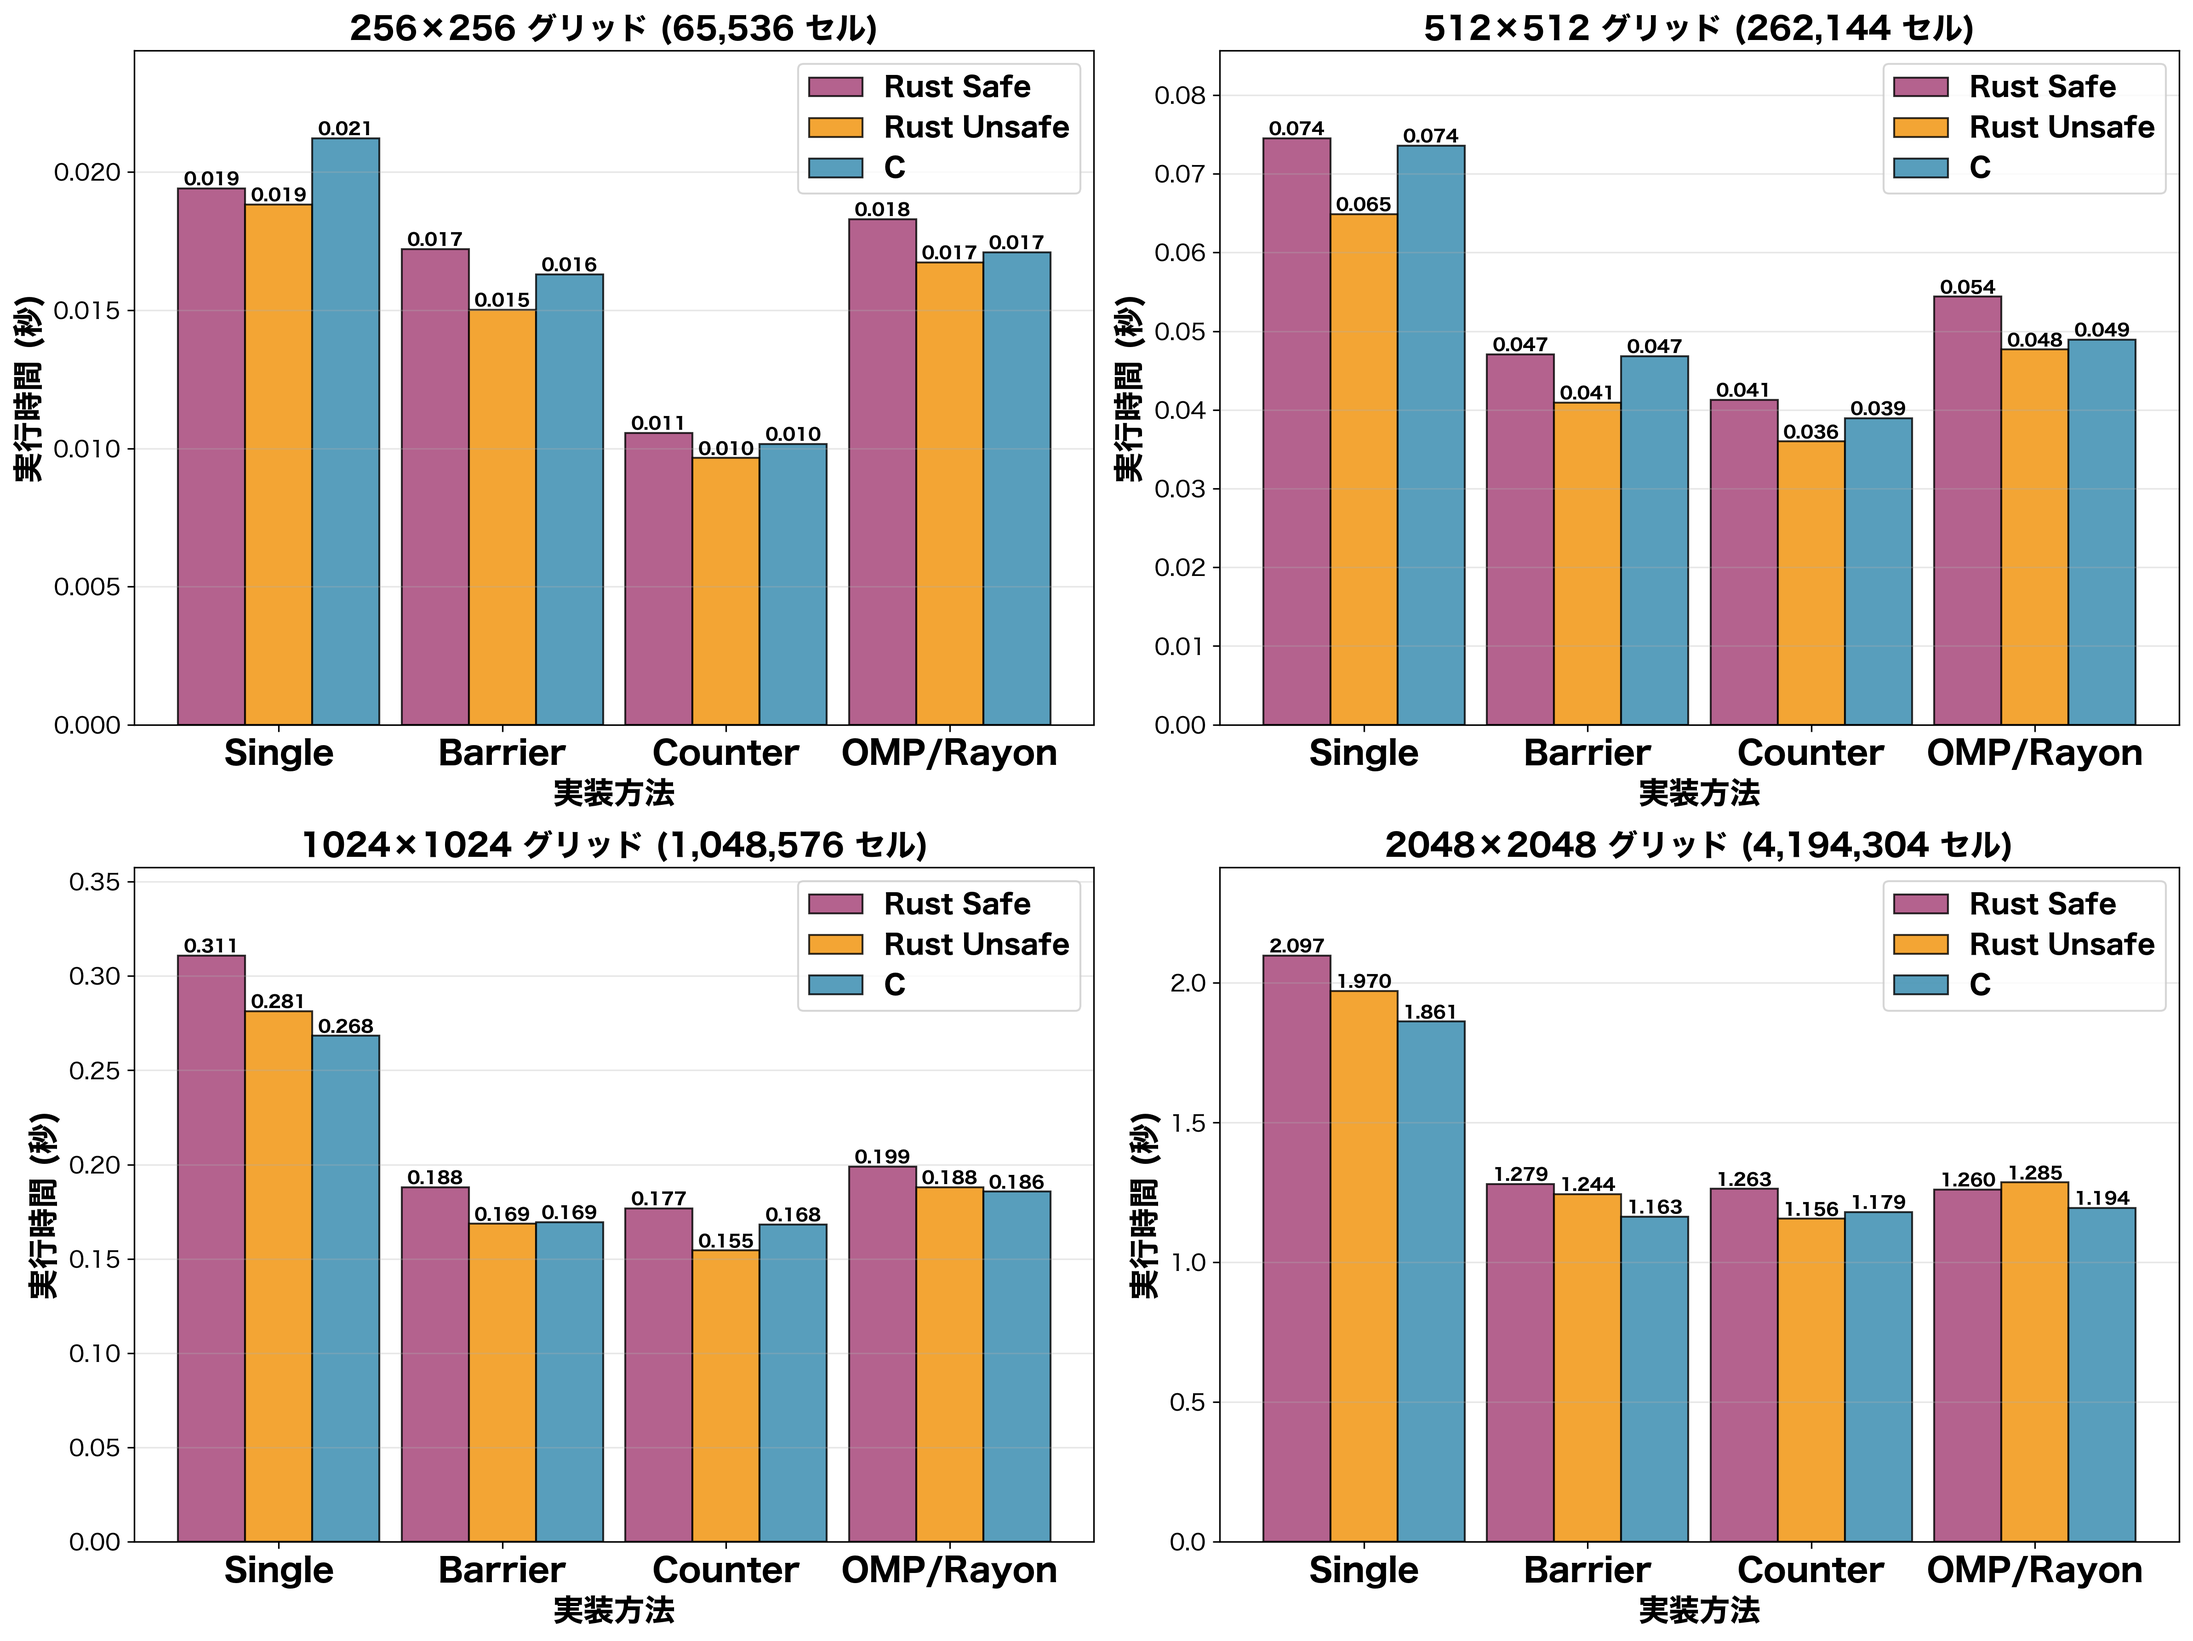
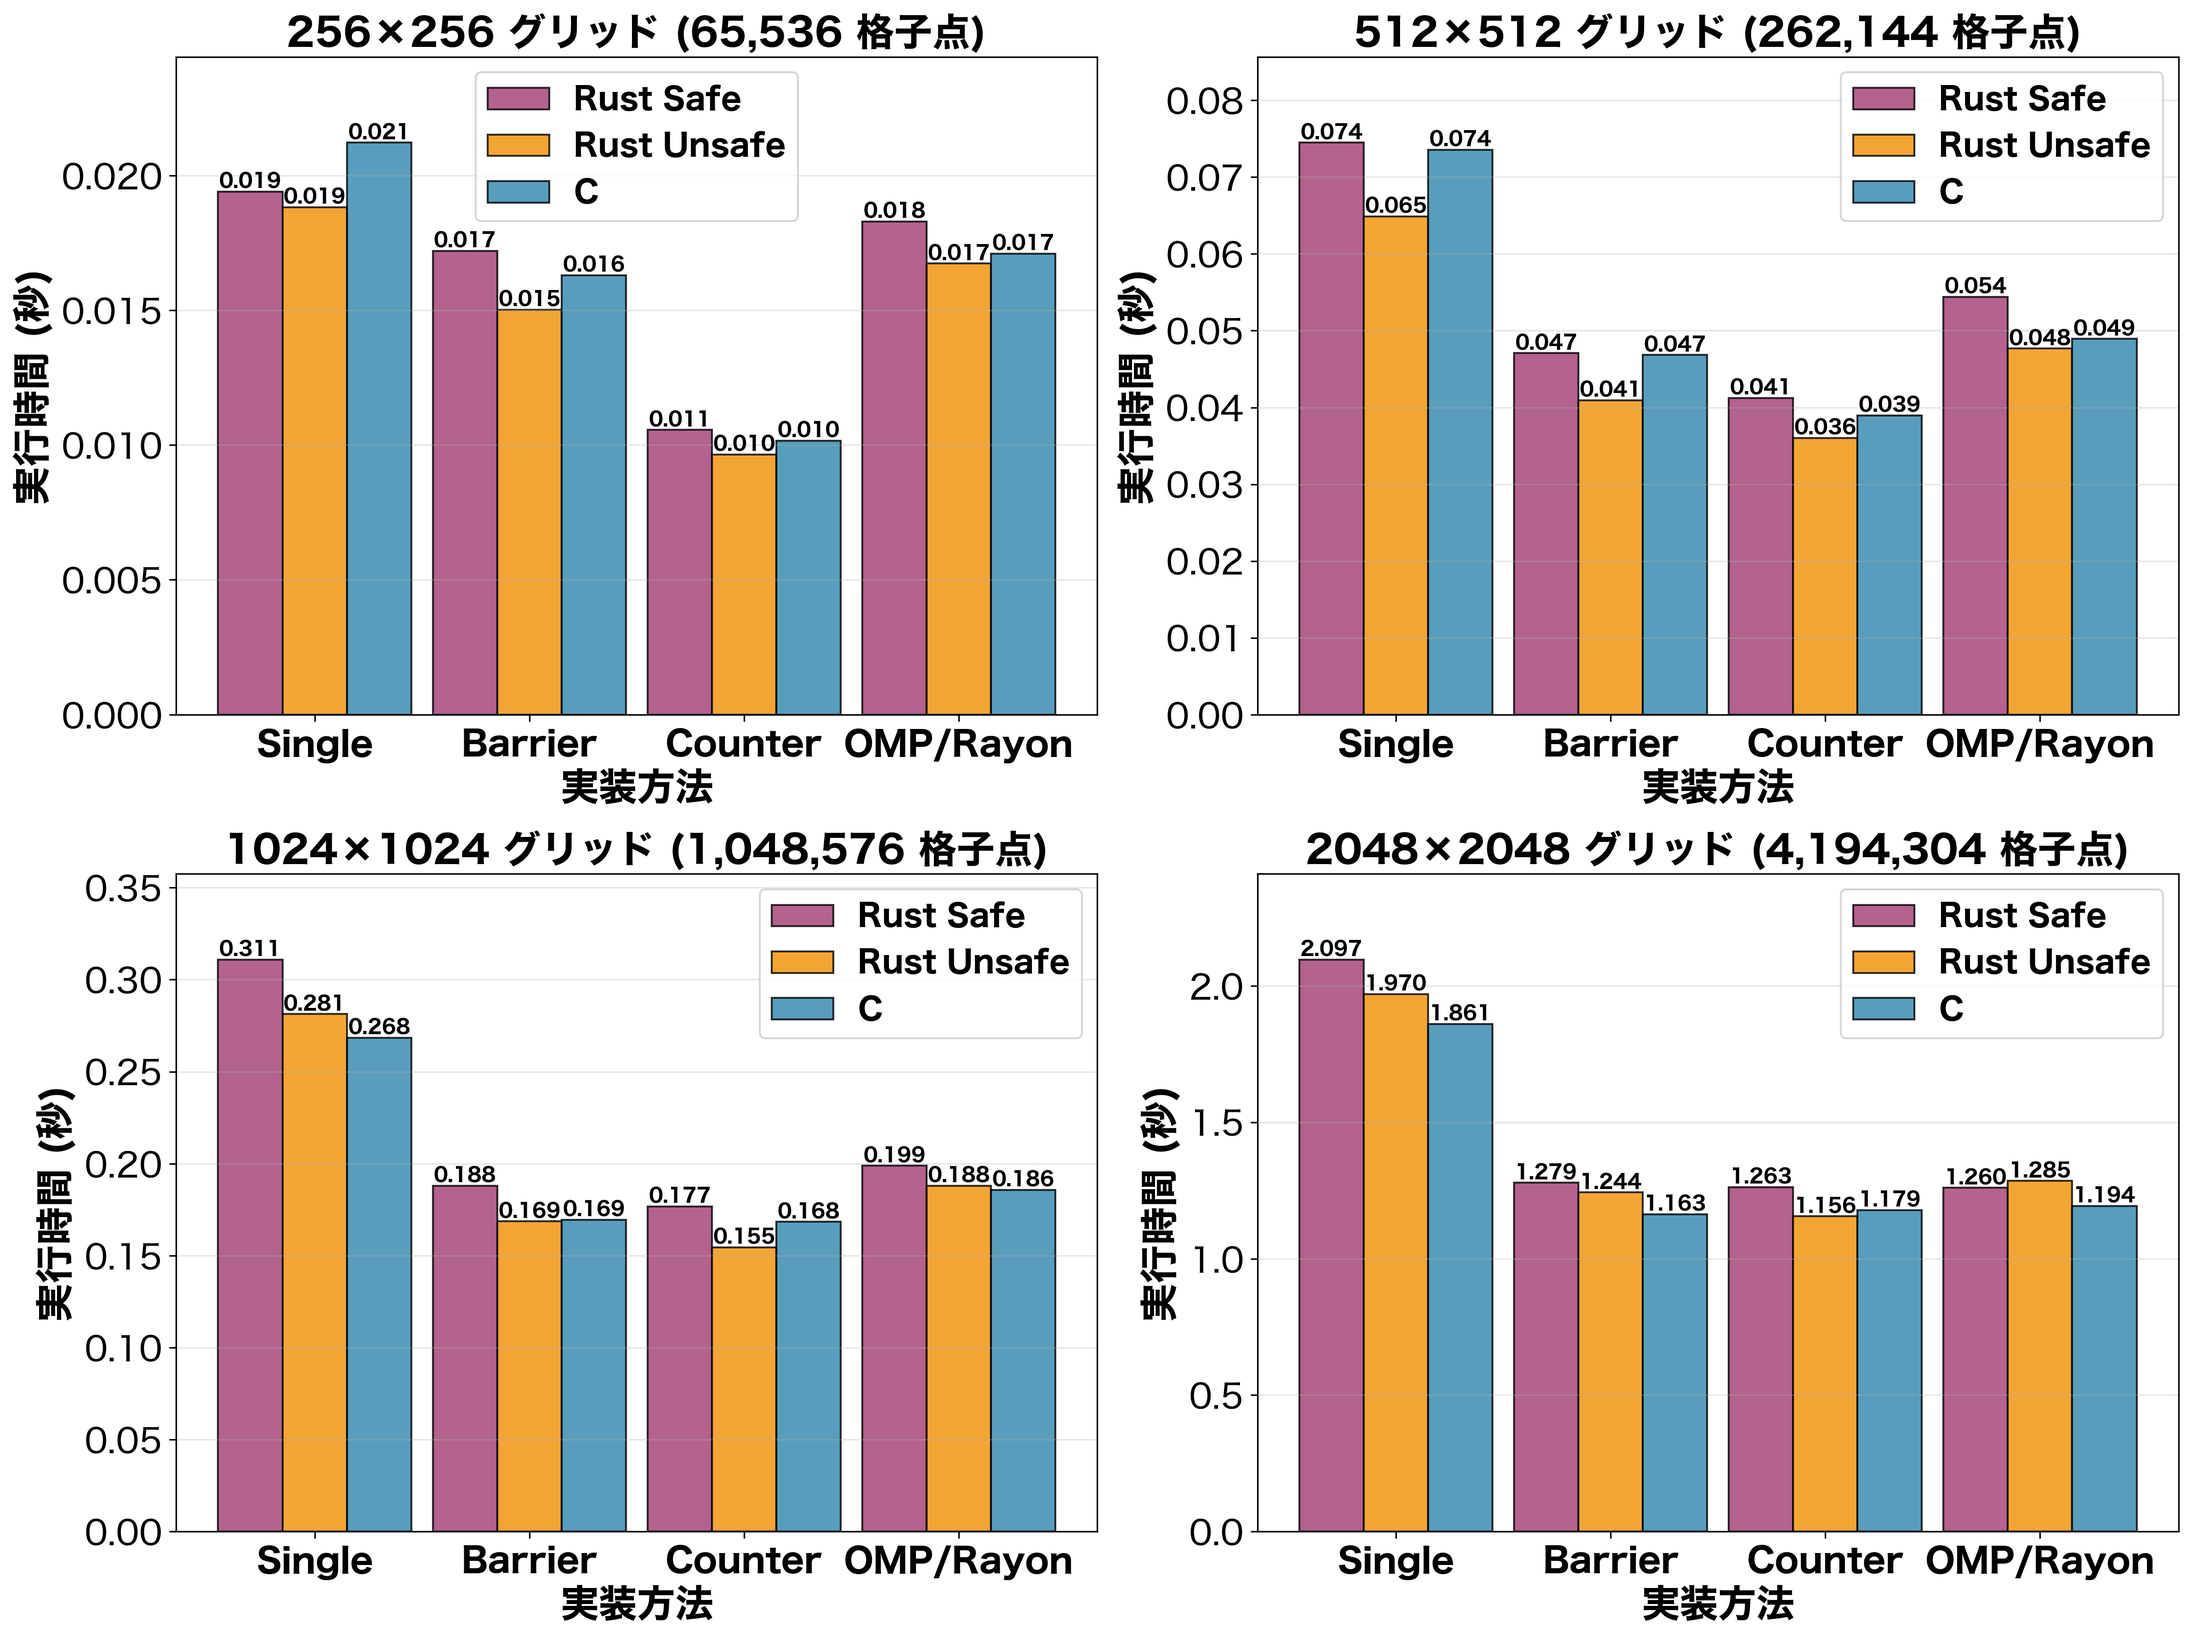
画像の文字サイズを修正

Changed region(s): [[0.0, 0.0, 0.9998, 0.6225], [0.0, 0.5292, 0.9998, 0.9961], [0.5936, 0.0, 0.9998, 0.1245]]

diff --git a/scripts/create_thesis_graphs.py b/scripts/create_thesis_graphs.py
@@ -116,17 +116,17 @@ def create_grid_size_comparison():
         rects2 = ax.bar(x, rust_unsafe_times, width, label='Rust Unsafe', color=colors['Rust Unsafe'], edgecolor='black', alpha=0.8)
         rects3 = ax.bar(x + width, c_times, width, label='C', color=colors['C'], edgecolor='black', alpha=0.8)
 
-        ax.set_xlabel('実装方法', fontsize=16,fontweight='bold')
-        ax.set_ylabel('実行時間 (秒)', fontsize=16, fontweight='bold')
-        ax.set_title(f'{grid_size} グリッド ({cells[idx]:,} セル)', fontsize=16, fontweight='bold')
+        ax.set_xlabel('実装方法', fontsize=20,fontweight='bold')
+        ax.set_ylabel('実行時間 (秒)', fontsize=20, fontweight='bold')
+        ax.set_title(f'{grid_size} グリッド ({cells[idx]:,} 格子点)', fontsize=20, fontweight='bold')
         ax.set_xticks(x)
-        
+
         # ラベルを短縮して回転なしで表示
         short_labels = [m.replace('OpenMP/Rayon', 'OMP/Rayon').replace('Single Thread', 'Single').replace('Counter Sync', 'Counter') for m in methods]
-        ax.set_xticklabels(short_labels, fontsize=17, fontweight='bold')
-        
-        ax.tick_params(axis='y', labelsize=12)
-        ax.legend(prop={'size': 14, 'weight': 'bold'})
+        ax.set_xticklabels(short_labels, fontsize=18, fontweight='bold')
+
+        ax.tick_params(axis='y', labelsize=18)
+        ax.legend(prop={'size': 16, 'weight': 'bold'})
         ax.grid(True, alpha=0.3, axis='y')
         ax.margins(y=0.15) # 上部にスペースを確保
 
@@ -136,7 +136,7 @@ def create_grid_size_comparison():
                 height = rect.get_height()
                 ax.text(rect.get_x() + rect.get_width()/2., height,
                         f'{height:.3f}',
-                        ha='center', va='bottom', fontsize=9, fontweight='bold', rotation=0)
+                        ha='center', va='bottom', fontsize=10, fontweight='bold', rotation=0)
 
         autolabel(rects1)
         autolabel(rects2)
@@ -387,14 +387,14 @@ def create_time_per_cell():
         ax = axes[idx]
 
         for lang in ['C', 'Rust Safe', 'Rust Unsafe']:
-            # セル×ステップあたりの時間（ナノ秒）
+            # 格子点×ステップあたりの時間（ナノ秒）
             time_per_cell_step = [(data[lang][method][i] / (cells[i] * time_steps)) * 1e9
                                   for i in range(len(cells))]
             ax.plot(grid_sizes_num, time_per_cell_step, marker='o', linewidth=2,
                    markersize=8, label=lang, color=colors[lang])
 
         ax.set_xlabel('グリッドサイズ (N×N)', fontsize=12)
-        ax.set_ylabel('セル・ステップあたりの時間 (ナノ秒)', fontsize=12)
+        ax.set_ylabel('格子点・ステップあたりの時間 (ナノ秒)', fontsize=12)
         ax.set_title(f'{method}', fontsize=13, fontweight='bold')
         ax.set_xscale('log', base=2)
         ax.legend(fontsize=10)
@@ -414,9 +414,6 @@ def create_rust_safe_vs_unsafe():
     fig, axes = plt.subplots(2, 2, figsize=(16, 12))
     axes = axes.flatten()
 
-    # 全体タイトルを設定（説明書きをここに移動）
-    fig.suptitle('Safe Rustを１としたときのUnsafe Rustの比率', 
-                 fontsize=20, fontweight='bold')
 
     for idx, method in enumerate(methods):
         ax = axes[idx]
@@ -444,23 +441,24 @@ def create_rust_safe_vs_unsafe():
             height = bar.get_height()
             ax.text(bar.get_x() + bar.get_width()/2., height,
                    f'{val:.1f}%',
-                   ha='center', va='bottom' if val > 0 else 'top', fontsize=15, fontweight='bold')
+                   ha='center', va='bottom' if val > 0 else 'top', fontsize=18, fontweight='bold')
 
-        ax.set_xlabel('グリッドサイズ', fontsize=16,fontweight='bold')
-        ax.set_ylabel('性能差 (%)', fontsize=16,fontweight='bold')
+        ax.set_xlabel('グリッドサイズ', fontsize=22,fontweight='bold')
+        ax.set_ylabel('性能差 (%)', fontsize=22,fontweight='bold')
         # サブプロットタイトルは簡潔に
-        ax.set_title(f'{method}', fontsize=16, fontweight='bold')
+        ax.set_title(f'{method}', fontsize=22, fontweight='bold')
         ax.grid(True, alpha=0.3, axis='y')
-        plt.setp(ax.xaxis.get_majorticklabels(),fontsize=15, fontweight='bold')
+        plt.setp(ax.xaxis.get_majorticklabels(),fontsize=16, fontweight='bold')
+        ax.tick_params(axis='y', labelsize=18)
 
         # 右上のサブプロット（idx=1）にグラフの読み方を説明
         if idx == 1:
-            explanation_text ='正の値（緑）:Safeが遅い　\n\n負の値（赤）:Unsafeが遅い'
-            ax.text(0.98, 0.97, explanation_text,
+            explanation_text ='正の値（緑）:Safeが遅い\n\n負の値（赤）:Unsafeが遅い'
+            ax.text(0.52, 0.95, explanation_text,
                    transform=ax.transAxes,
-                   fontsize=12, fontweight='bold',
+                   fontsize=16, fontweight='bold',
                    verticalalignment='top',
-                   horizontalalignment='right',
+                   horizontalalignment='left',
                    bbox=dict(boxstyle='round', facecolor='white', alpha=0.8, edgecolor='black', linewidth=1.0))
 
     # タイトル分のスペースを空けてレイアウト調整
@@ -478,13 +476,13 @@ def main():
     print("="*60 + "\n")
 
     create_grid_size_comparison()
-    create_scalability_plots()
-    create_speedup_plots()
-    create_parallel_efficiency()
-    create_heatmaps()
-    create_normalized_plots()
-    create_overall_performance()
-    create_time_per_cell()
+    # create_scalability_plots()
+    # create_speedup_plots()
+    # create_parallel_efficiency()
+    # create_heatmaps()
+    # create_normalized_plots()
+    # create_overall_performance()
+    # create_time_per_cell()
     create_rust_safe_vs_unsafe()
 
     print("\n" + "="*60)
